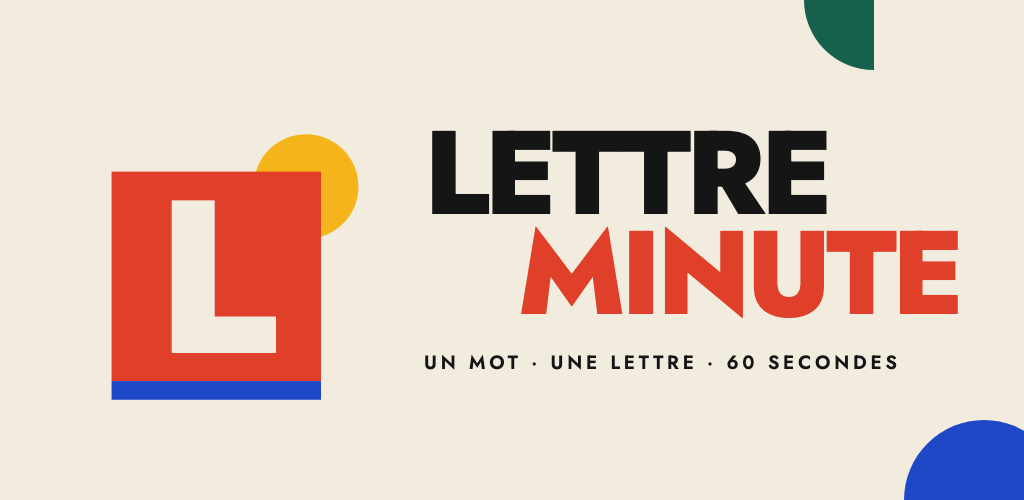
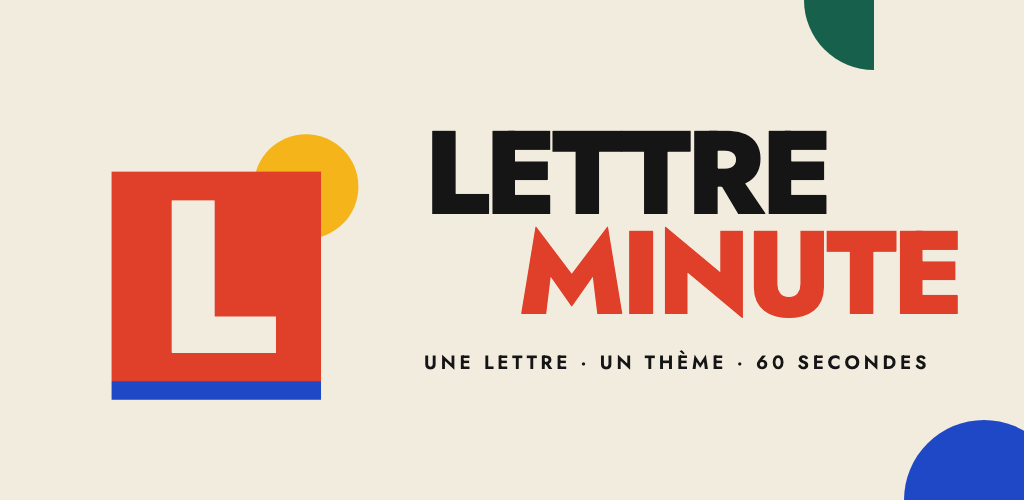
Follow the new home poster and tagline in the store visuals

Changed region(s): [[0.4375, 0.69, 0.9062, 0.75]]

diff --git a/assets/source/feature.html b/assets/source/feature.html
@@ -23,7 +23,7 @@
   <iframe src="mark.html?layer=foreground&scale=1.1"></iframe>
   <div>
     <h1><span>Lettre</span><span>Minute</span></h1>
-    <p>Un mot · une lettre · 60 secondes</p>
+    <p>Une lettre · un thème · 60 secondes</p>
   </div>
   <span class="arch"></span>
   <span class="quarter"></span>
